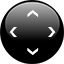
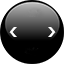
Fixed unable to use joystick and button at same time, added jump button, and test for desktop (Changes text for mobile)

Changed region(s): [[0.4062, 0.75, 0.625, 0.875], [0.4062, 0.1562, 0.5938, 0.2812]]

diff --git a/player.js b/player.js
@@ -25,7 +25,7 @@ class Player extends Phaser.GameObjects.Sprite {
       radius: 100,
       base: this.scene.add.image(0,0, 'moveButton').setDisplaySize(108, 108).setAlpha(0.01),
       thumb: this.scene.add.image(0, 0, 'moveButton').setDisplaySize(64, 64).setAlpha(0.25),
-      dir: '8dir',
+      dir: 'left&right',
       // forceMin: 16,
       // fixed: true,
       // enable: true
@@ -38,9 +38,21 @@ class Player extends Phaser.GameObjects.Sprite {
         // clickInterval: 100    // ms
         // threshold: undefined
     });
-
+    this.jumpButton = scene.plugins.get('rexButton')
+      .add(this.scene.add.sprite(sizes.width-sizes.controlsOffset*2, sizes.height + sizes.controlsHeight - sizes.controlsOffset,"jumpButton")
+      .setAlpha(0.25).setScrollFactor(0), {
+        // enable: true,
+        mode: 0,              // 0|'press'|1|'release'
+        // clickInterval: 100    // ms
+        // threshold: undefined
+    });
+    this.jumpButtonPressed = false;
+    this.scene.input.addPointer(1);
     this.joystickCursor = this.joystick.createCursorKeys();
     this.attackButton.on('down', () => this.attack());
+    this.jumpButton.on('down', () => this.jumpButtonPressed=true);
+   
+
 
     this.right = true;
     this.body.setSize(20, 30);
@@ -136,7 +148,8 @@ class Player extends Phaser.GameObjects.Sprite {
       this.falling = false;
     }
 
-    if ( (Phaser.Input.Keyboard.JustDown(this.cursor.up) || Phaser.Input.Keyboard.JustDown(this.W) || Phaser.Input.Keyboard.JustDown(this.joystickCursor.up)) && !this.falling && !this.jumping) {
+    if ( (Phaser.Input.Keyboard.JustDown(this.cursor.up) || Phaser.Input.Keyboard.JustDown(this.W) || this.jumpButtonPressed) && !this.falling && !this.jumping) {
+      this.jumpButtonPressed=false;
       this.body.setVelocityY(this.jumpVelocity);
       if (!this.attacking ) this.anims.play("jumpUp", true);
       this.scene.playAudio("jump");
@@ -183,7 +196,7 @@ class Player extends Phaser.GameObjects.Sprite {
   }
 
   attack() {
-    if(!this.attacking){
+    if(!this.attacking && !this.dead){
       if(this.combo==0){
         this.anims.play("attack1", true);
         this.combo++;

diff --git a/splash.js b/splash.js
@@ -127,24 +127,41 @@ export default class Splash extends Phaser.Scene {
     Generates the instructions text for the player.
     */
   showInstructions() {
-    this.add
-      .bitmapText(this.center_width, 300, "pixelFont", "WASD/Arrows: move", 20)
-      .setOrigin(0.5);
-    this.add
-      .bitmapText(this.center_width, 350, "pixelFont", "SPACE: ATTACK", 20)
-      .setOrigin(0.5);
-    this.add
-      .bitmapText(this.center_width, 480, "pixelFont", "By RaZ", 15)
-      .setOrigin(0.5);
-    this.space = this.add
-      .bitmapText(
-        this.center_width,
-        670,
-        "pixelFont",
-        "Press SPACE to start",
-        30
-      )
-      .setOrigin(0.5);
+    if(this.registry.get("desktop")){
+      this.add
+        .bitmapText(this.center_width, 300, "pixelFont", "WASD/Arrows: move", 20)
+        .setOrigin(0.5);
+      this.add
+        .bitmapText(this.center_width, 350, "pixelFont", "SPACE: ATTACK", 20)
+        .setOrigin(0.5);
+      this.add
+        .bitmapText(this.center_width, 480, "pixelFont", "By RaZ", 15)
+        .setOrigin(0.5);
+      this.space = this.add
+        .bitmapText(
+          this.center_width,
+          530,
+          "pixelFont",
+          "Press SPACE to start",
+          20
+        )
+        .setOrigin(0.5);
+    }else{
+      this.add
+        .bitmapText(this.center_width, 480, "pixelFont", "By RaZ", 15)
+        .setOrigin(0.5);
+      this.space = this.add
+        .bitmapText(
+          this.center_width,
+          530,
+          "pixelFont",
+          "Touch to start",
+          20
+        )
+        .setOrigin(0.5);
+    }
+
+
     this.tweens.add({
       targets: this.space,
       duration: 300,

diff --git a/outro.js b/outro.js
@@ -22,7 +22,6 @@ export default class Outro extends Phaser.Scene {
       "",
       "Total Coins",
       "",
-      "Press SPACE",
     ];
 
     if(this.isDead){
@@ -34,9 +33,12 @@ export default class Outro extends Phaser.Scene {
         "",
         "Total Coins",
         "",
-        "Press SPACE",
       ];
     }
+    if(this.registry.get("desktop"))
+      this.text.push("Press SPACE");
+    else
+      this.text.push("TOUCH to Continue");
 
     // Reset score and hearts
     this.registry.set("hearts", 2);
@@ -94,7 +96,7 @@ export default class Outro extends Phaser.Scene {
     this.scoreCoins = this.add
       .bitmapText(
         this.center_width + 32,
-        this.center_height + 95,
+        this.center_height + 55,
         "pixelFont",
         "x" + this.totalCoins,
         30
@@ -103,7 +105,7 @@ export default class Outro extends Phaser.Scene {
       .setOrigin(0.5)
       .setScrollFactor(0);
     this.scoreCoinsLogo = this.add
-      .sprite(this.center_width - 32, this.center_height + 95, "coin")
+      .sprite(this.center_width - 32, this.center_height + 55, "coin")
       .setScale(0.7)
       .setOrigin(0.5)
       .setScrollFactor(0);

diff --git a/bootloader.js b/bootloader.js
@@ -42,7 +42,8 @@ export default class Bootloader extends Phaser.Scene {
       this.load.image("chain", "assets/images/chain.png");
       this.load.image("attackButton", "assets/images/attackButton.png");
       this.load.image("moveButton", "assets/images/moveButton.png");
-
+      this.load.image("jumpButton", "assets/images/jumpButton.png");
+      
       this.load.audio("build", "assets/sounds/build.mp3");
       this.load.audio("slash", "assets/sounds/slash.mp3");
       this.load.audio("coin", "assets/sounds/coin.mp3");
@@ -114,6 +115,12 @@ export default class Bootloader extends Phaser.Scene {
       frameHeight: 20,
     });
     
+
+    if (this.sys.game.device.os.desktop)
+      this.registry.set("desktop", 1);
+    else
+      this.registry.set("desktop", 0);
+
     this.registry.set("score", 0);
     this.registry.set("coins", 0);
     this.registry.set("hearts", 2);

diff --git a/game.js b/game.js
@@ -130,8 +130,13 @@ export default class GameScene extends Phaser.Scene{
       }
 
       if (object.name === "text") {
+        let text = object.text.text;
+        if(!this.registry.get("desktop")){
+          text = text.replace("UP", "JUMP");
+          text = text.replace("SPACE","ATTACK");
+        }
         this.add
-          .bitmapText(object.x, object.y, "pixelFont", object.text.text, 15)
+          .bitmapText(object.x, object.y, "pixelFont", text, 15)
           .setDropShadow(1, 2, 0x222222, 0.9)
           .setOrigin(0);
       }

diff --git a/sizes.js b/sizes.js
@@ -2,5 +2,5 @@ export const sizes = {
   width: 500,
   height: 500,
   controlsHeight: 100,
-  controlsOffset: 75
+  controlsOffset: 65
 }
